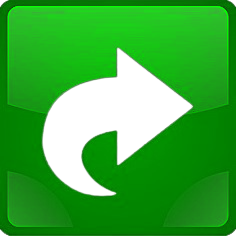
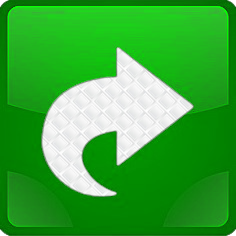
minStepShareicons

Changed region(s): [[0.1483, 0.2076, 0.8305, 0.8602]]

diff --git a/screens/AddMove.js b/screens/AddMove.js
@@ -239,8 +239,8 @@ const AddMove = ({ route }) => {
                 />
                 {steps.length > 1 && (
                   <TouchableOpacity onPress={() => setSteps(steps.filter(st => st.id !== s.id))} style={styles.removeStepIcon}>
-                    <ImageBackground style={{ height:91, width:"100%", }} imageStyle={{ opacity: 1 }} resizeMode='contain' source={require('../assets/removeimgicon.png')}/>
-                    <Text style={styles.removeText}>✕ REMOVE STEP</Text>
+                    <ImageBackground style={{ height: 91, width:"100%", }} imageStyle={{ opacity: 1 }} resizeMode='contain' source={require('../assets/removeimgicon.png')}/>
+                    <Text style={styles.removeText}>➖ STEP</Text>
                   </TouchableOpacity>
                 )}
               </View>
@@ -297,14 +297,14 @@ const styles = StyleSheet.create({
   stepRow: { flexDirection: 'column', marginTop: 7, alignItems: 'center', backgroundColor: 'transparent', padding: 10, borderRadius: 10, elevation: 1 },
   stepImg: { width: '100%', height: '100%' },
   stepInput: { borderWidth: 1, borderColor: '#083a1d', padding: 8, marginTop: 7, backgroundColor: 'rgba(80, 214, 145, 0.41)', borderRadius: 12, opacity: 1, fontWeight: "semibold"},
-  removeText: { color: '#d40a25', fontSize: 10, textAlign:'center', marginTop:1, fontWeight: 'bold', height: 17, width: '100%' },
+  removeText: { color: '#dc2626', fontSize: 10, textAlign:'center', marginTop: 1, fontWeight: 'bold', width: '100%' },
   removeStepIcon:{alignItems: 'center', justifyContent: 'center', marginTop:5, height:107, width:95, flexDirection: 'column', backgroundColor: 'rgba(255, 0, 0, 0.1)', borderRadius: 20, borderWidth: 1, borderColor: '#ff4d4d', opacity: 1},
   mediaBtn: { backgroundColor: '#f0eaff', borderRadius: 10, marginTop: 15, alignItems: 'center', borderStyle: 'dashed', borderWidth: 1, borderColor: '#5b12a5' },
   mediaBtnText: { color: '#5b12a5', fontWeight: 'bold' },
   addStepBtn: {marginTop: 5, height: 41 ,width: 114, alignSelf:'center', alignItems: 'center',justifyContent:'center'},
   saveBtn: { width: 125, height: 97, borderRadius: 15, marginTop: 7, alignSelf:'center', alignItems: 'center', justifyContent:'center', },
   discardBtn: { marginBottom: 9, marginLeft: 12, height: 70, width: 67, borderRadius: 10, justifyContent: 'center', alignItems: 'center', opacity: 1},
-  discardText: { textAlign: 'center', color: '#ac162a', fontWeight: 'bold', fontSize: 10, marginTop: 1, height: 15, width: '100%' },
+  discardText: { textAlign: 'center', color: '#dc2626', fontWeight: 'bold', fontSize: 10, marginTop: 1, height: 15, width: '100%' },
   stepImgContainer: { width: 77, height: 77, justifyContent: 'center', alignItems: 'center', borderRadius: 12, borderWidth: 0, opacity: 1},
 });
 
